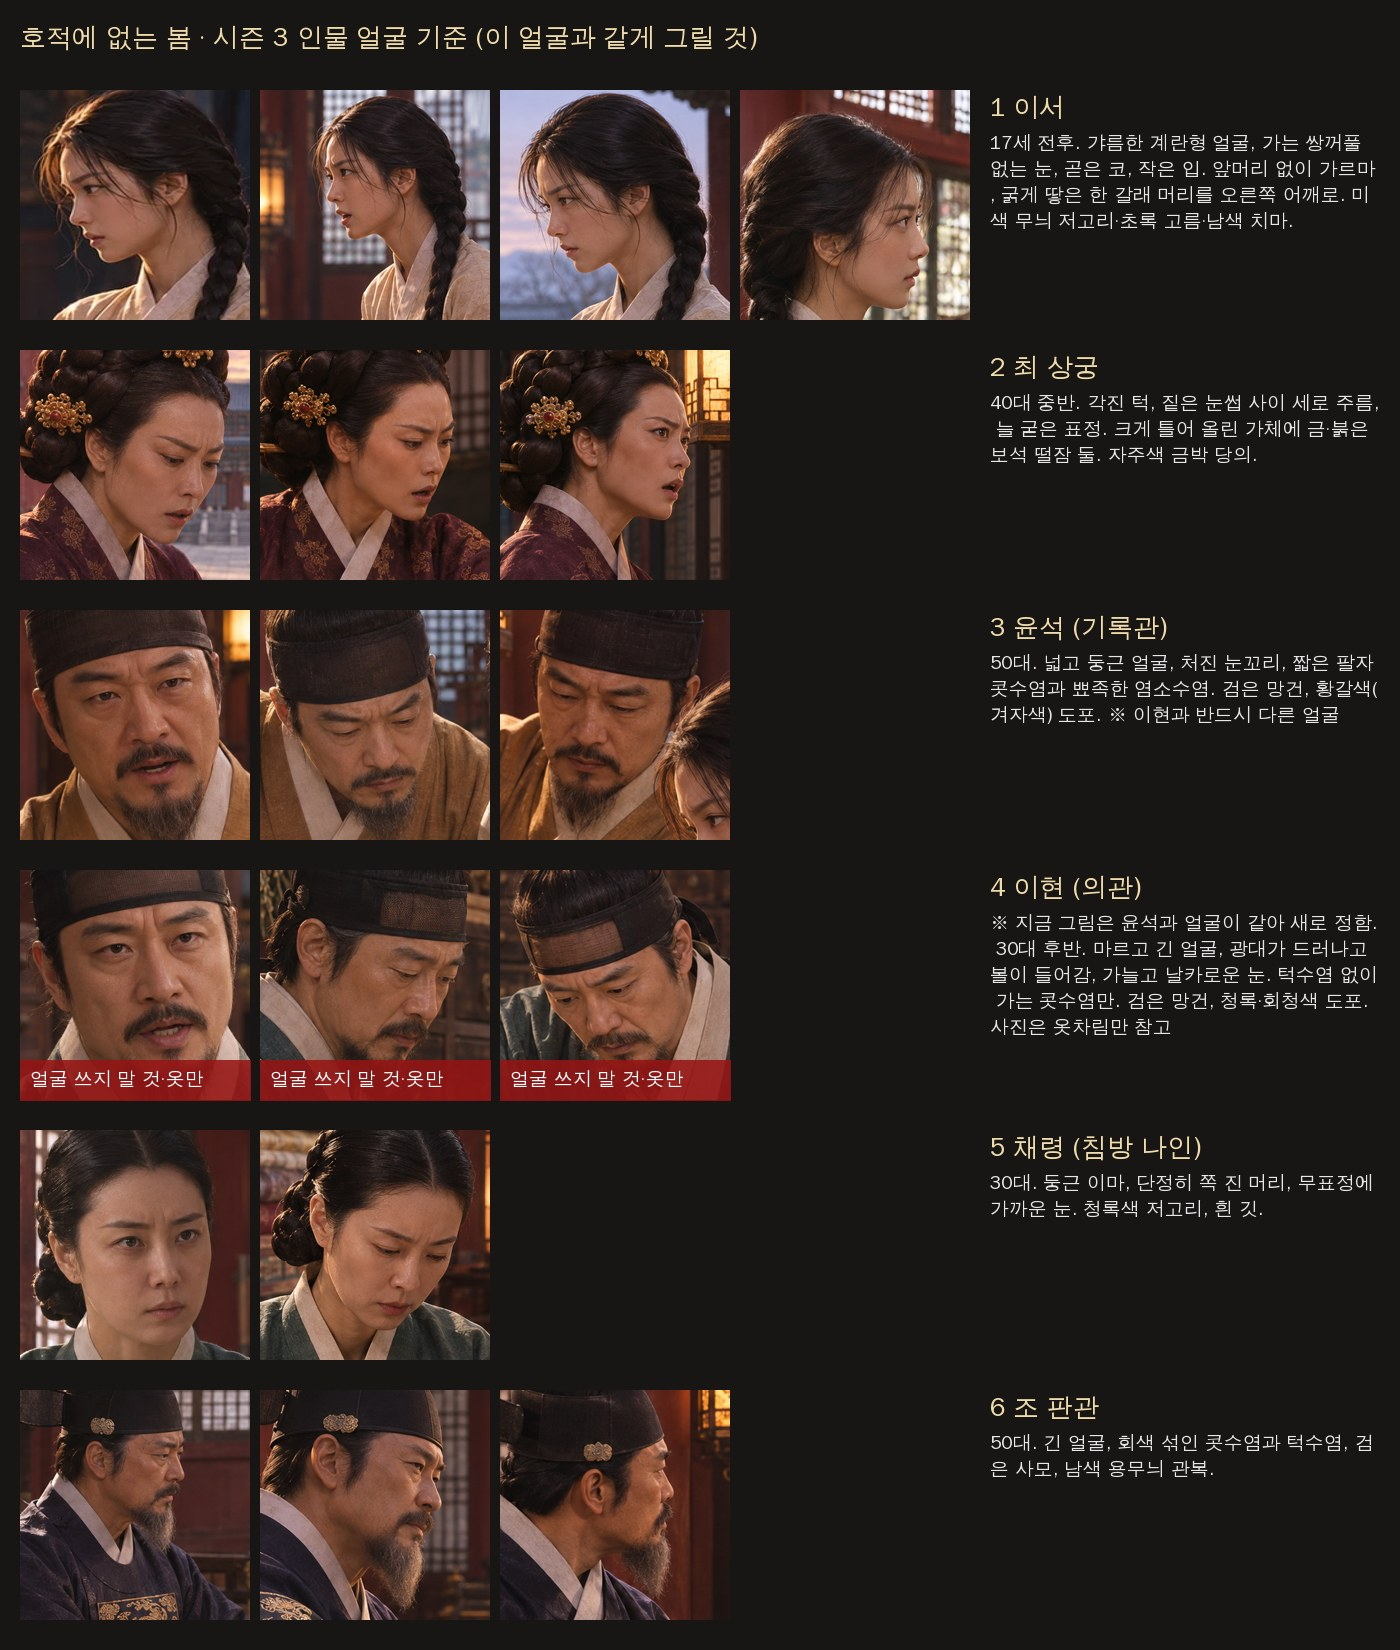
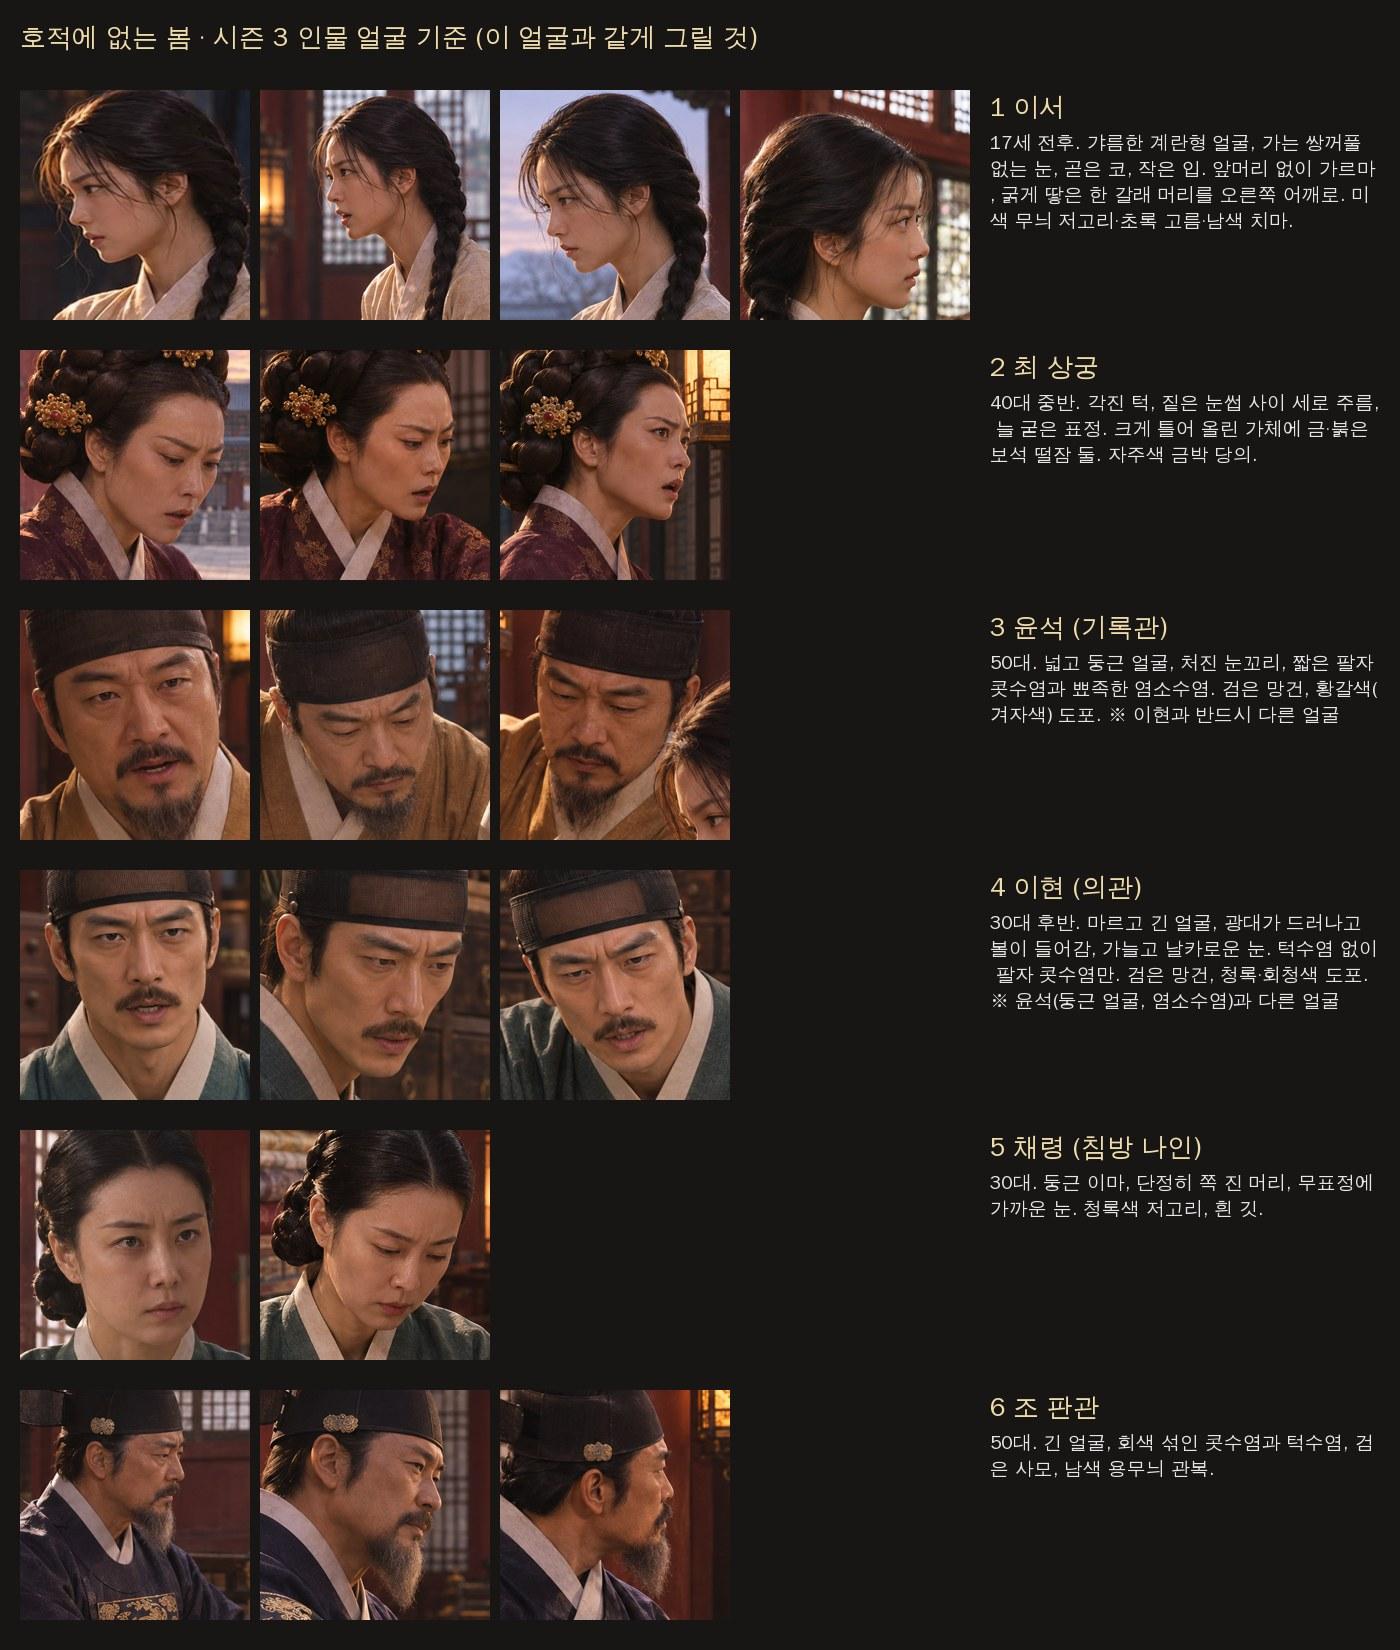
얼굴 통일 다시 그린 컷과 S3-37 반영
- S3-18(이서), S3-07·14·26·27·28(새 이현 얼굴) 교체. 이현이 윤석과 다른 얼굴이 됐다.
- S3-37 반영. S3-35·36·38은 매듭 색이 이야기(장례 무명, 파란 실)와 달라 다시 그리기로 돌림.
- 시즌 3 얼굴 기준 그림의 이현 칸을 새 얼굴로 바꿈.

Claude-Session: https://claude.ai/code/session_01VZgG2bX25gLRz4FyidLT13

Changed region(s): [[0.0, 0.5255, 0.5221, 0.68], [0.7064, 0.5564, 0.9829, 0.6491], [0.5221, 0.0927, 0.5529, 0.1236]]

diff --git a/site/season-3-new-slots.js b/site/season-3-new-slots.js
@@ -1,3 +1,3 @@
 // tools/build-new-cuts.py가 만든다. season-3-new.webp에 실제로 들어간 새 컷과 칸 번호.
-var NEW_CUT_SLOTS_3 = {'S3-01':0,'S3-02':1,'S3-03':2,'S3-04':3,'S3-05':4,'S3-06':5,'S3-07':6,'S3-08':7,'S3-09':8,'S3-10':9,'S3-11':10,'S3-12':11,'S3-13':12,'S3-14':13,'S3-15':14,'S3-16':15,'S3-17':16,'S3-18':17,'S3-19':18,'S3-20':19,'S3-21':20,'S3-22':21,'S3-23':22,'S3-24':23,'S3-25':24,'S3-26':25,'S3-27':26,'S3-28':27,'S3-29':28,'S3-30':29,'S3-31':30,'S3-32':31,'S3-33':32,'S3-34':33};
+var NEW_CUT_SLOTS_3 = {'S3-01':0,'S3-02':1,'S3-03':2,'S3-04':3,'S3-05':4,'S3-06':5,'S3-07':6,'S3-08':7,'S3-09':8,'S3-10':9,'S3-11':10,'S3-12':11,'S3-13':12,'S3-14':13,'S3-15':14,'S3-16':15,'S3-17':16,'S3-18':17,'S3-19':18,'S3-20':19,'S3-21':20,'S3-22':21,'S3-23':22,'S3-24':23,'S3-25':24,'S3-26':25,'S3-27':26,'S3-28':27,'S3-29':28,'S3-30':29,'S3-31':30,'S3-32':31,'S3-33':32,'S3-34':33,'S3-37':36};
 var NEW_CUT_ROWS_3 = 11;
